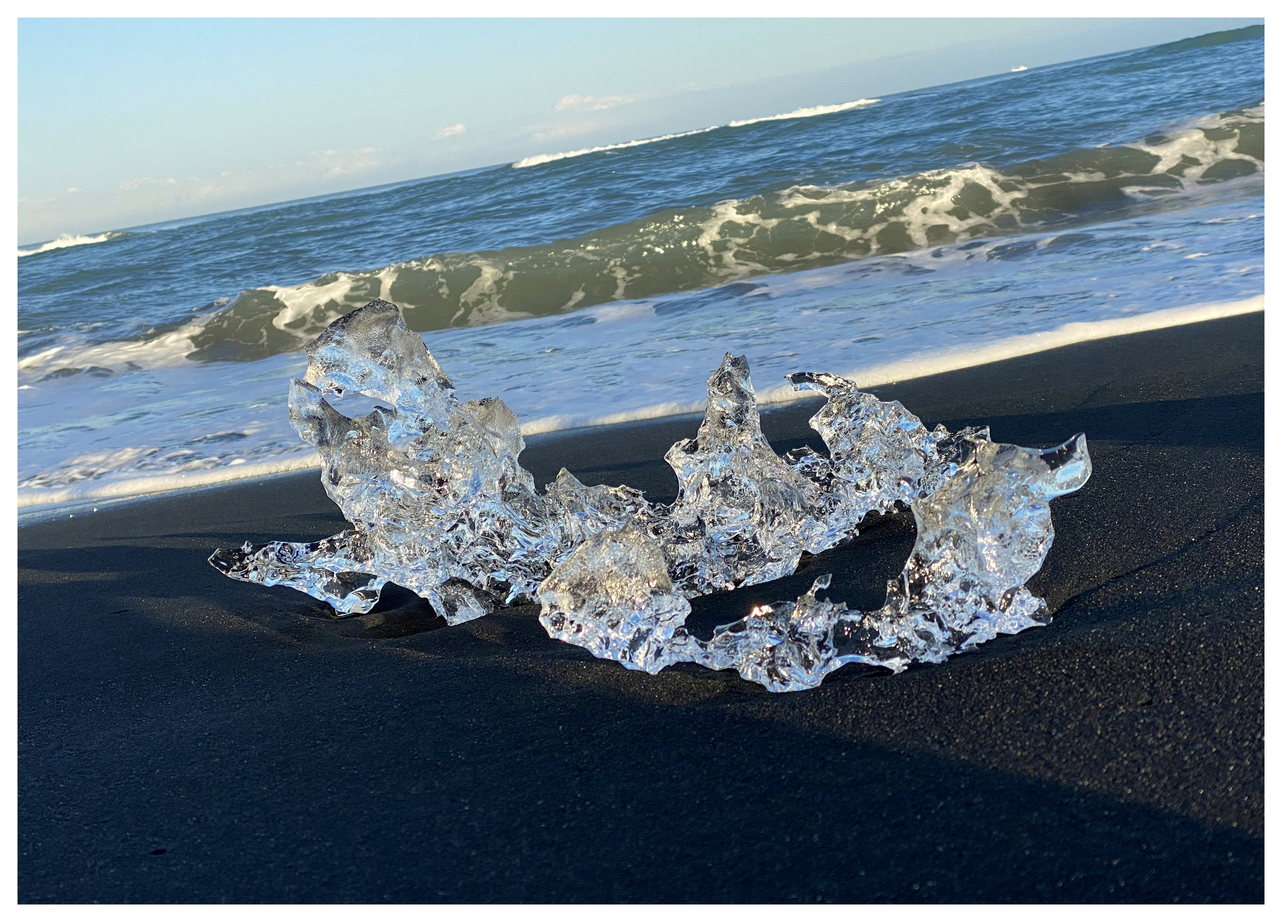
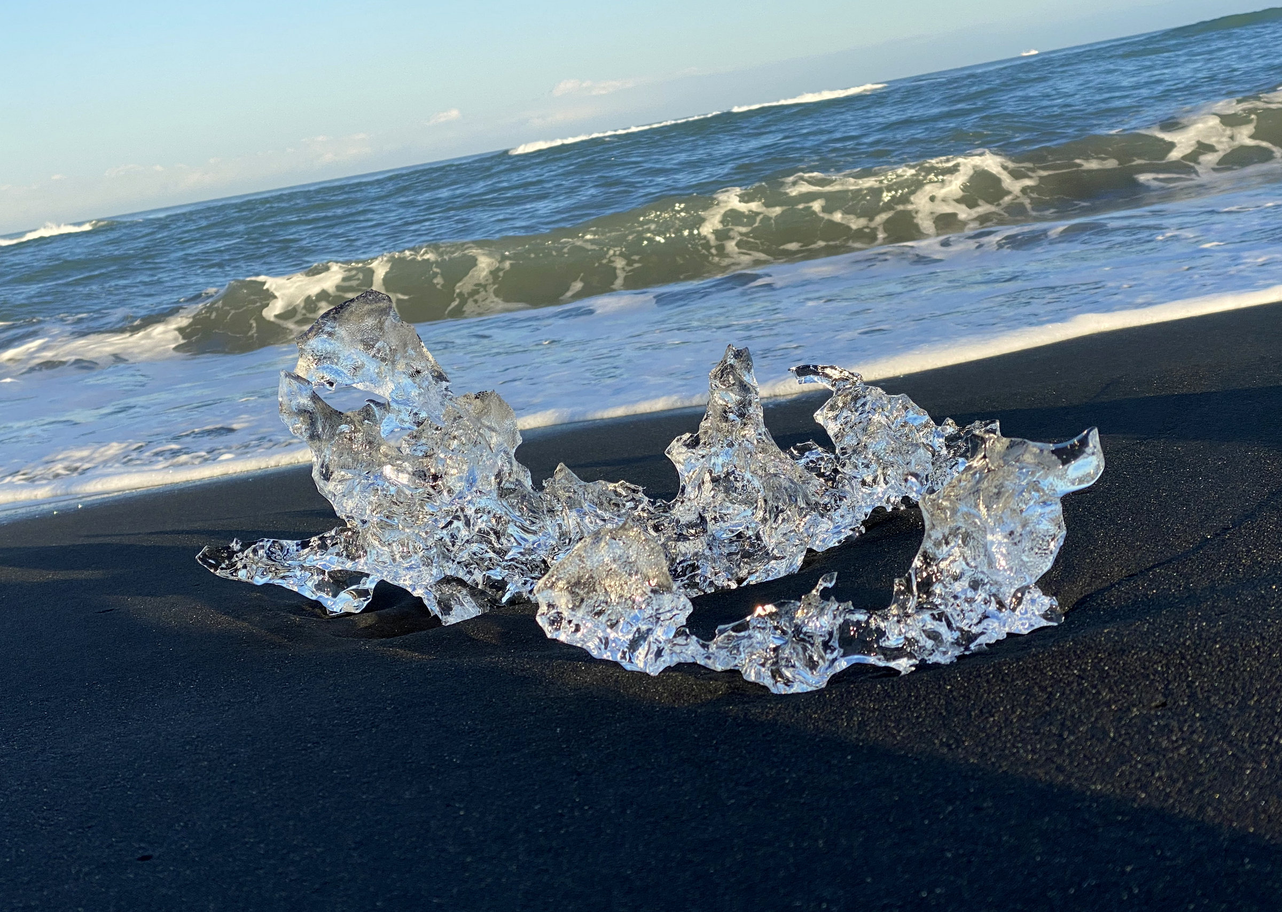
Photo contest entry: adaptive border, context text, regenerated images without baked border

diff --git a/assets/css/custom.css b/assets/css/custom.css
@@ -1504,3 +1504,12 @@ button:focus:not(:focus-visible),
         display: none;
     }
 }
+
+/* Photo border — dark in light mode, light in dark mode */
+.photo-border {
+    border: 5px solid #222222;
+}
+
+[data-bs-theme="dark"] .photo-border {
+    border: 5px solid #cccccc;
+}

diff --git a/_side-projects/ice-contest.md b/_side-projects/ice-contest.md
@@ -22,17 +22,23 @@ breadcrumb:
   - name: "Photo Contest"
 ---
 
-## The photo
-
 <picture>
   <source type="image/webp" srcset="/assets/images/content/ice-contest.webp">
-  <img src="/assets/images/content/ice-contest.jpg" class="img-fluid mx-auto d-block img-rd-md" alt="Ice fragment on black sand beach" loading="lazy">
+  <img src="/assets/images/content/ice-contest.jpg" class="img-fluid mx-auto d-block img-rd-md photo-border" alt="Ice fragment on black sand beach, Iceland" loading="lazy">
 </picture>
 
-## Description
+## The photo
 
-In the age of the Anthropocene, even small coastal scenes echo the planetary transformations reshaping ecosystems. My research examines these shifting patterns as life reorganizes across space and time.
+This was taken on the black sand beach at Jökulsárlón, Iceland — a stretch of shore where icebergs calved from the Breiðamerkurjökull glacier wash up, melt for a few hours, and disappear back into the sea. The piece of ice in the foreground had probably been on the beach for less than a day when I photographed it. The black sand is volcanic basalt. The ocean behind it is the North Atlantic.
 
-## Context
+What struck me was the contrast: something ancient — glacier ice that may have been compressed for centuries — sitting on something equally ancient, slowly returning to water. The whole scene lasts a few hours, then it is gone.
 
-Submitted to the [Life Sciences Faculty Photo Contest](https://lifesciences.univie.ac.at/innovation-impact/photo-contest/) at the University of Vienna.
+## Why I submitted it
+
+The [Life Sciences Faculty photo contest](https://lifesciences.univie.ac.at/innovation-impact/photo-contest/) asked for images that connect to research themes in life sciences. My research looks at how species distributions shift under global change — how life reorganizes across space and time as climate, land use, and disturbance reshape ecosystems.
+
+Glacier retreat is one of the clearest signals of that reorganization. The beach at Jökulsárlón did not look like this fifty years ago. The glacier has retreated several kilometres since the 1930s, and the lagoon it created — now the largest in Iceland — grows every decade. What reads as a beautiful, otherworldly landscape is also a record of change.
+
+The submission description:
+
+> In the age of the Anthropocene, even small coastal scenes echo the planetary transformations reshaping ecosystems. My research examines these shifting patterns as life reorganizes across space and time.
